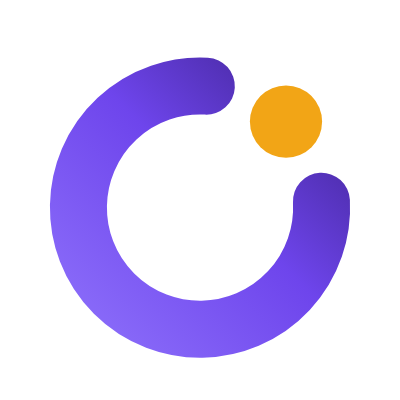
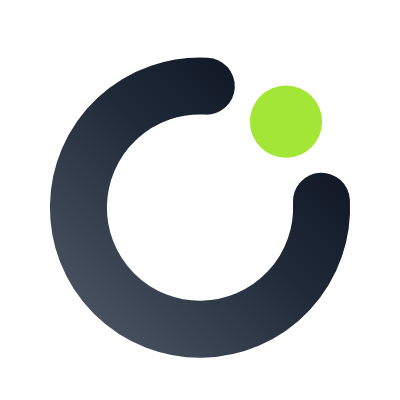
feat(marca): la paleta de Orvia pasa a grafito con acento lima
Reemplaza el violeta por grafito + lima, y regenera los tres assets
provisionales en esa paleta.

La implementación no es la obvia, y el motivo importa: la rampa --brand-*
no pinta solo superficies, el sitio la usa unas 70 veces como color de
TEXTO. Al ponerle el lima, esos textos tienen que oscurecerse para pasar
contraste sobre blanco y la página entera se va a verde oliva — además de
acercarse al verde de WhatsApp, que es lo último que conviene vendiendo
agentes de WhatsApp.

Así que --brand-* lleva el grafito y el lima vive en --accent-light, que
el design system usa sobre fondos oscuros: ahí contrasta de sobra y es
donde la marca se ve de verdad. El lima brillante no se usa nunca como
texto sobre claro.

Costo asumido y deliberado: sobre fondo claro la palabra de acento de los
titulares queda en grafito, sin color.

Changed region(s): [[0.12, 0.12, 0.9, 0.9], [0.6, 0.21, 0.81, 0.42]]

diff --git a/orvia-brand.css b/orvia-brand.css
@@ -1,5 +1,6 @@
 /* ============================================================================
    Orvia — tokens de marca (PROVISIONALES)
+   Paleta: grafito + lima
    ----------------------------------------------------------------------------
    Se carga DESPUÉS de las hojas del design system y solo redefine la rampa de
    marca, el acento y la tipografía de display. La estructura, el espaciado y
@@ -8,41 +9,60 @@
    Por qué existe este archivo: la landing heredaba la rampa azul de Dealer
    Solutions (--brand-500: #1E5BB8). Orvia es otra empresa y no se posiciona
    sobre la experiencia de Dealer, así que la marca tenía que dejar de ser
-   prestada. Separarlo en un archivo propio mantiene el design system intacto
-   y hace el cambio reversible.
+   prestada. Separarlo mantiene el design system intacto y el cambio reversible.
 
-   PROVISIONAL: esta paleta la elegí yo a falta de identidad formal de Orvia.
-   Cuando exista la definitiva, se reemplazan los valores de este archivo y
-   nada más. Ver docs/RUNBOOK-rebrand-orvia.md, decisión 0.3.
+   CÓMO SE REPARTE "GRAFITO + LIMA" — y por qué así y no al revés.
+   La rampa --brand-* no pinta solo botones: el sitio la usa unas 70 veces como
+   COLOR DE TEXTO (enlaces, la palabra de acento de cada titular, --info). Si se
+   le mete el lima, esos 70 textos tienen que oscurecerse para pasar contraste
+   sobre blanco, y la página entera se va a verde oliva — además de acercarse al
+   verde de WhatsApp, que es justo lo que no queremos vendiendo agentes de
+   WhatsApp. Por eso:
+   - --brand-* es la rampa de GRAFITO. Gobierna superficies y textos de acento.
+   - El LIMA vive en --accent-light, que el design system usa sobre fondos
+     oscuros. Ahí contrasta de sobra y es donde la marca de verdad se ve.
+   - El lima brillante NO se usa nunca como texto sobre fondo claro: #A3E635
+     sobre blanco no pasa contraste. Solo sobre oscuro, y en adornos.
+
+   El costo asumido: sobre fondo claro la palabra de acento de los titulares
+   queda en grafito, sin color. Es el precio de esta paleta y es deliberado.
+
+   PROVISIONAL: paleta elegida a falta de identidad formal de Orvia. Cuando
+   exista la definitiva se reemplazan estos valores y nada más.
+   Ver docs/RUNBOOK-rebrand-orvia.md, decisión 0.3.
    ========================================================================== */
 
 :root {
-  /* --- Rampa de marca: violeta ------------------------------------------- */
-  --brand-50:  #F3F0FF;
-  --brand-100: #E6DFFF;
-  --brand-200: #CCBFFF;
-  --brand-300: #AC97FF;
-  --brand-400: #8B6DFA;
-  --brand-500: #6E45EC;  /* primario */
-  --brand-600: #5932C4;  /* texto de marca sobre fondo claro */
-  --brand-700: #44269A;
-  --brand-800: #2F1A6C;
-  --brand-900: #1C0F41;
+  /* --- Rampa de marca: grafito ------------------------------------------- */
+  --brand-50:  #F8FAFC;
+  --brand-100: #F1F5F9;
+  --brand-200: #E2E8F0;
+  --brand-300: #CBD5E1;
+  --brand-400: #475569;
+  --brand-500: #1F2937;  /* primario y texto de acento sobre claro */
+  --brand-600: #111827;
+  --brand-700: #0B1220;  /* el design system deriva --bg-dark de aquí */
+  --brand-800: #060B14;
+  --brand-900: #030712;
 
-  /* --- Acento: ámbar ------------------------------------------------------ */
-  --accent:       #F2A516;
-  --accent-light: #FFC65C;
-  --accent-soft:  #FFF1D6;
+  /* --- Acento: lima, y solo sobre oscuro ---------------------------------- */
+  --accent:       #A3E635;
+  --accent-light: #A3E635;  /* el design system lo usa en secciones oscuras */
+  --accent-soft:  #ECFCCB;
+
+  /* --- Superficies oscuras ------------------------------------------------ */
+  --bg-dark:    #0B1220;
+  --grad-brand: linear-gradient(135deg, #1F2937 0%, #0B1220 100%);
 
   /* --- Tokens que el design system define con el azul en duro ------------- */
-  --border-brand: rgba(110, 69, 236, 0.35);
-  --ring-brand:   0 0 0 3px rgba(110, 69, 236, 0.18);
-  --grad-card:    linear-gradient(180deg, rgba(110, 69, 236, 0.03) 0%, rgba(110, 69, 236, 0) 100%);
+  --border-brand: rgba(31, 41, 55, 0.28);
+  --grad-card:    linear-gradient(180deg, rgba(31, 41, 55, 0.03) 0%, rgba(31, 41, 55, 0) 100%);
+  /* El anillo de foco sí va en lima: es el único sitio donde el acento tiene
+     que saltar sobre fondo claro, y como es un halo y no texto, no aplica la
+     regla de contraste de texto. */
+  --ring-brand:   0 0 0 3px rgba(163, 230, 53, 0.45);
 
   /* --- Tipografía --------------------------------------------------------- */
   /* Display con más carácter; el cuerpo sigue en Geist, que ya se carga. */
   --font-display: 'Outfit', 'Geist', system-ui, sans-serif;
 }
-
-/* Outfit es geométrica y de trazo más abierto que Geist: a tamaños grandes
-   se nota, a tamaños de cuerpo no. Por eso solo cambia el display. */
